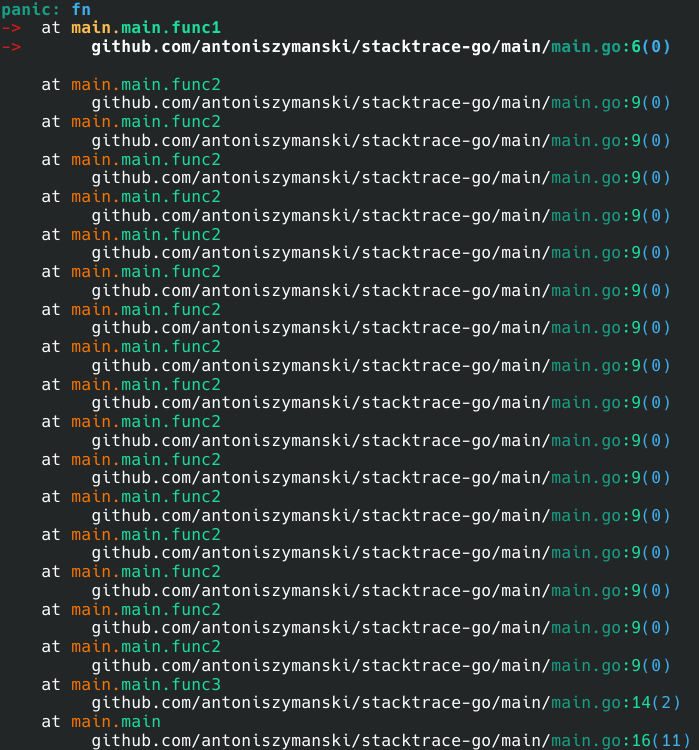
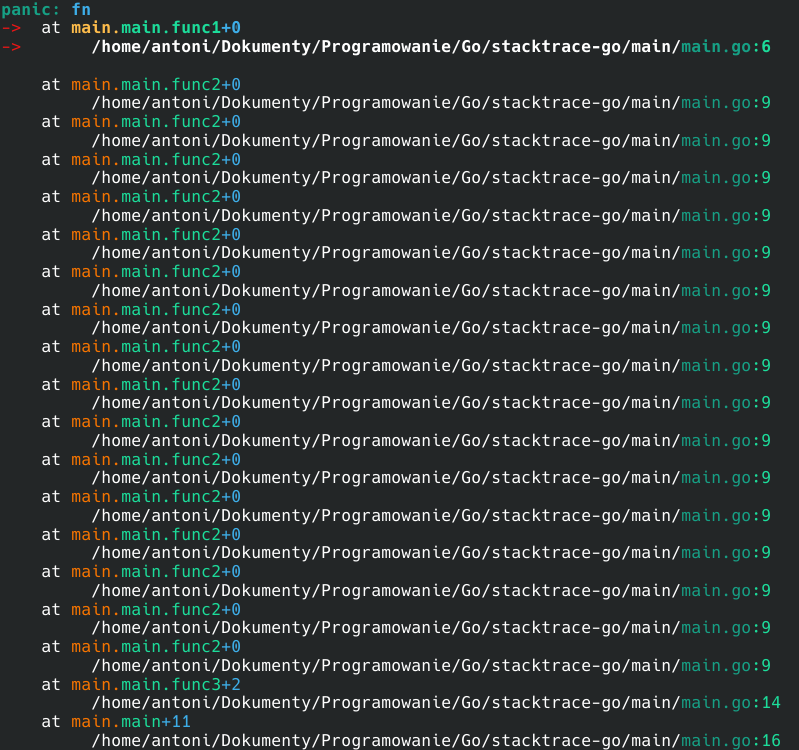
refactor: move offset to first line and change format from "($offset)" to "+$offset"

Changed region(s): [[0.0, 0.0, 0.9914, 1.0]]

diff --git a/handle.go b/handle.go
@@ -67,17 +67,13 @@ func Handle(exit bool, print func(w io.Writer, r any), predicate func(frame runt
 	}
 
 	write3(bold+brightCyan, "panic: ", reset)
-	if !noColor {
-		write(bold + brightBlue)
-	}
+	writeColor(bold + brightBlue)
 	if print != nil {
 		print(output, r)
 	} else {
 		fmt.Fprint(output, r) //nolint:errcheck
 	}
-	if !noColor {
-		write(reset)
-	}
+	writeColor(reset)
 	write("\n")
 
 	isFirst := true
@@ -94,7 +90,8 @@ func Handle(exit bool, print func(w io.Writer, r any), predicate func(frame runt
 			write3(red, "->", reset)
 			write("  at ")
 			write2(bold+brightYellow, packagePath)
-			write3(bold+brightGreen, functionName, reset)
+			write2(bold+brightGreen, functionName)
+			writeOffset(bold+brightBlue, offset)
 			write("\n")
 			write2(red, "->")
 			write("       ")
@@ -102,18 +99,19 @@ func Handle(exit bool, print func(w io.Writer, r any), predicate func(frame runt
 			write2(bold+brightCyan, name)
 			write2(bold+brightGreen, ":")
 			writeInt(frame.Line)
-			writeOffset(bold+brightBlue, offset)
+			writeColor(reset)
 			write("\n\n")
 		} else {
 			write("    at ")
 			write2(yellow, packagePath)
 			write2(brightGreen, functionName)
+			writeOffset(brightBlue, offset)
 			write("\n         ")
 			write2(brightWhite, dir)
 			write2(brightCyan, name)
 			write2(brightGreen, ":")
 			writeInt(frame.Line)
-			writeOffset(brightBlue, offset)
+			writeColor(reset)
 			write("\n")
 		}
 		isFirst = false
@@ -124,16 +122,10 @@ func writeOffset(prefix string, offset int) {
 	if offset < 0 {
 		goto reset
 	}
-	if !noColor {
-		write(prefix)
-	}
-	write("(")
+	write2(prefix, "+")
 	writeInt(offset)
-	write(")")
 reset:
-	if !noColor {
-		write(reset)
-	}
+	writeColor(reset)
 }
 
 func write[Bytes ~[]byte | ~string](b Bytes) {
@@ -148,21 +140,21 @@ func noEscape[P ~*E, E any](p P) P {
 	return P(unsafe.Pointer(x ^ 0))
 }
 
-func write2(prefix, s string) {
+func writeColor(s string) {
 	if !noColor {
-		write(prefix)
+		write(s)
 	}
+}
+
+func write2(prefix, s string) {
+	writeColor(prefix)
 	write(s)
 }
 
 func write3(prefix, s, suffix string) {
-	if !noColor {
-		write(prefix)
-	}
+	writeColor(prefix)
 	write(s)
-	if !noColor {
-		write(suffix)
-	}
+	writeColor(suffix)
 }
 
 func writeInt(n int) {
